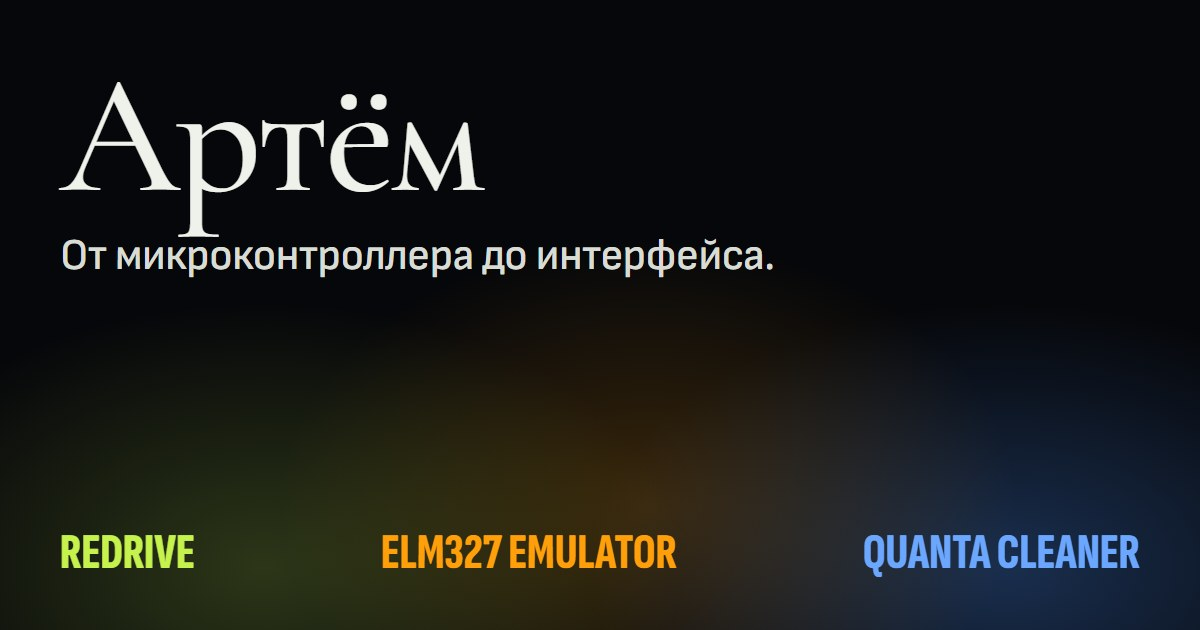
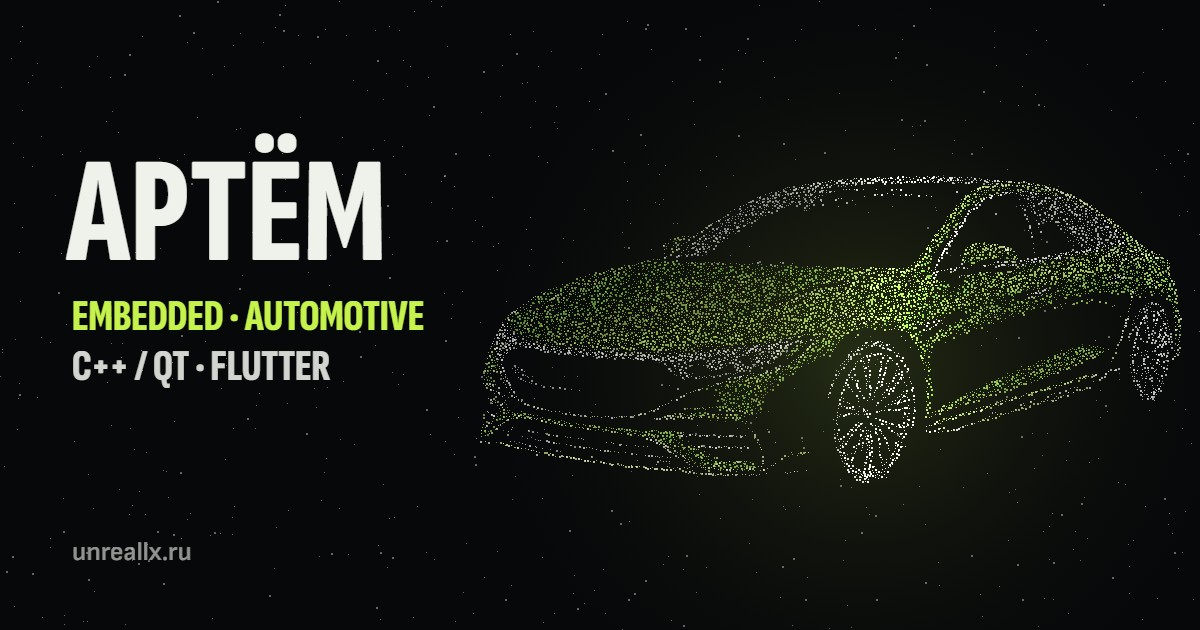
New link preview image and shorter preview text

diff --git a/index.html b/index.html
@@ -4,14 +4,13 @@
 <meta charset="utf-8">
 <meta name="viewport" content="width=device-width, initial-scale=1, viewport-fit=cover">
 <title>Unreallx</title>
-<meta name="description" content="Портфолио Артёма (iUnreallx): embedded и automotive, приложения на C++/Qt и Flutter. ReDrive, ELM327 Emulator и Quanta Cleaner.">
 <meta name="theme-color" content="#0A0B0C">
 <meta property="og:type" content="website">
-<meta property="og:title" content="Unreallx · Артём: от микроконтроллера до интерфейса">
-<meta property="og:site_name" content="Unreallx">
-<meta property="og:description" content="ReDrive, ELM327 Emulator и Quanta Cleaner: open-source приложения для телефона и Windows.">
+<meta property="og:title" content="Unreallx">
 <meta property="og:url" content="https://unreallx.ru/">
-<meta property="og:image" content="https://unreallx.ru/assets/og.jpg">
+<meta property="og:image" content="https://unreallx.ru/assets/og.jpg?v=2">
+<meta property="og:image:width" content="1200">
+<meta property="og:image:height" content="630">
 <link rel="canonical" href="https://unreallx.ru/">
 <meta name="twitter:card" content="summary_large_image">
 <link rel="icon" type="image/png" sizes="32x32" href="assets/favicon-32.png">
